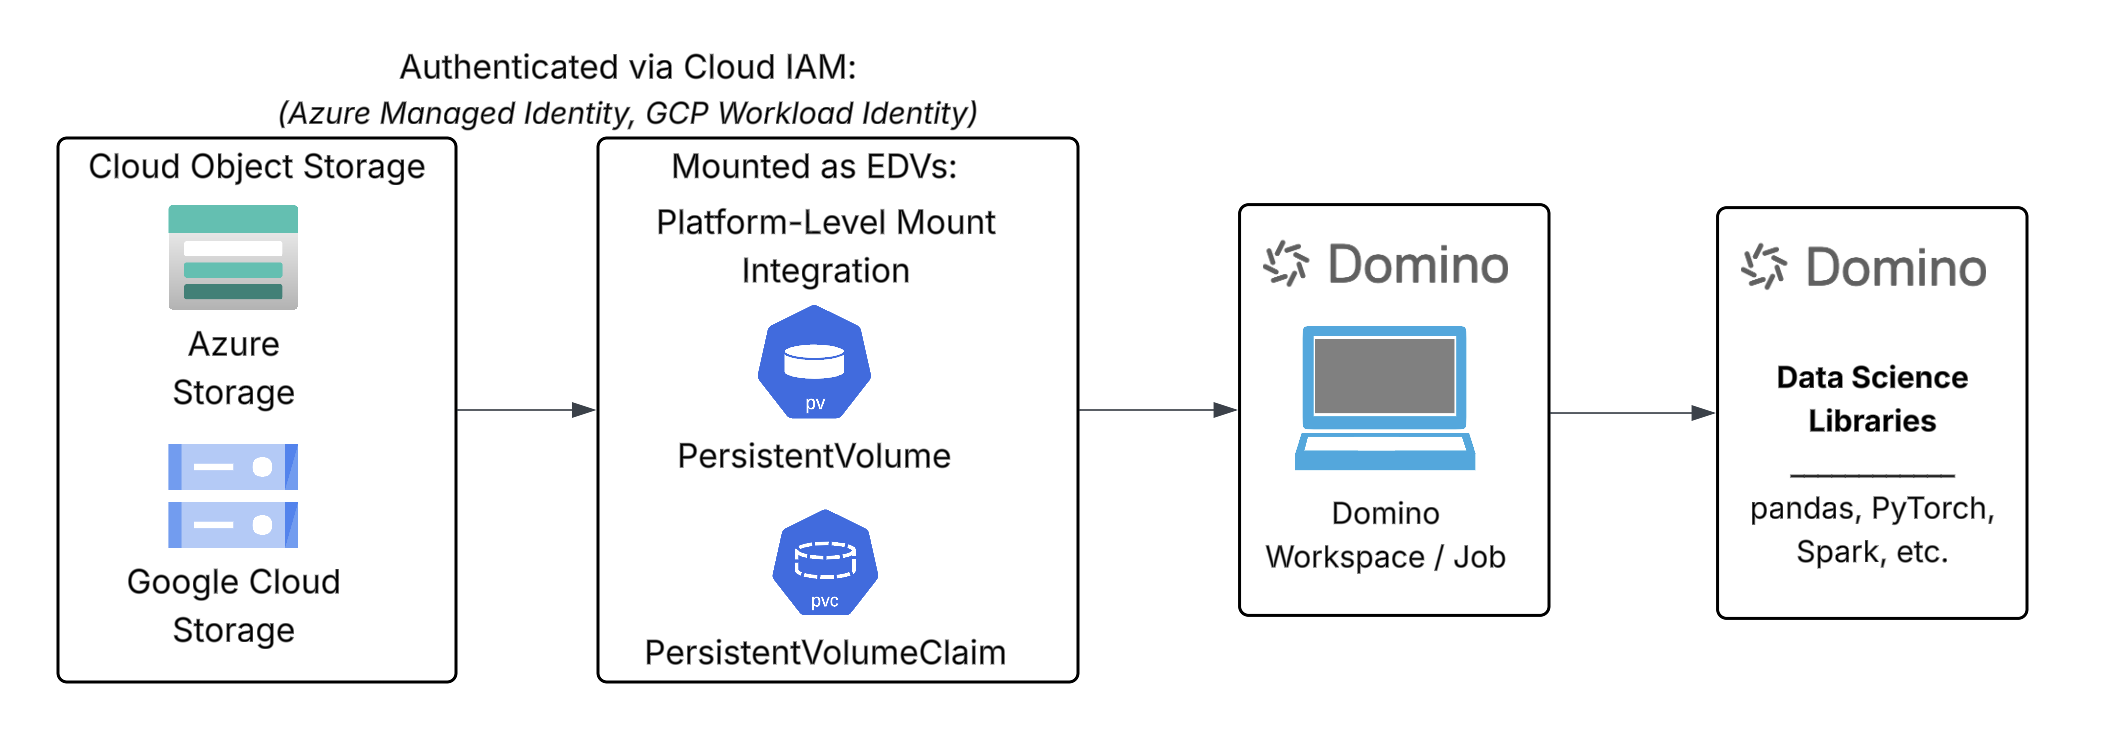
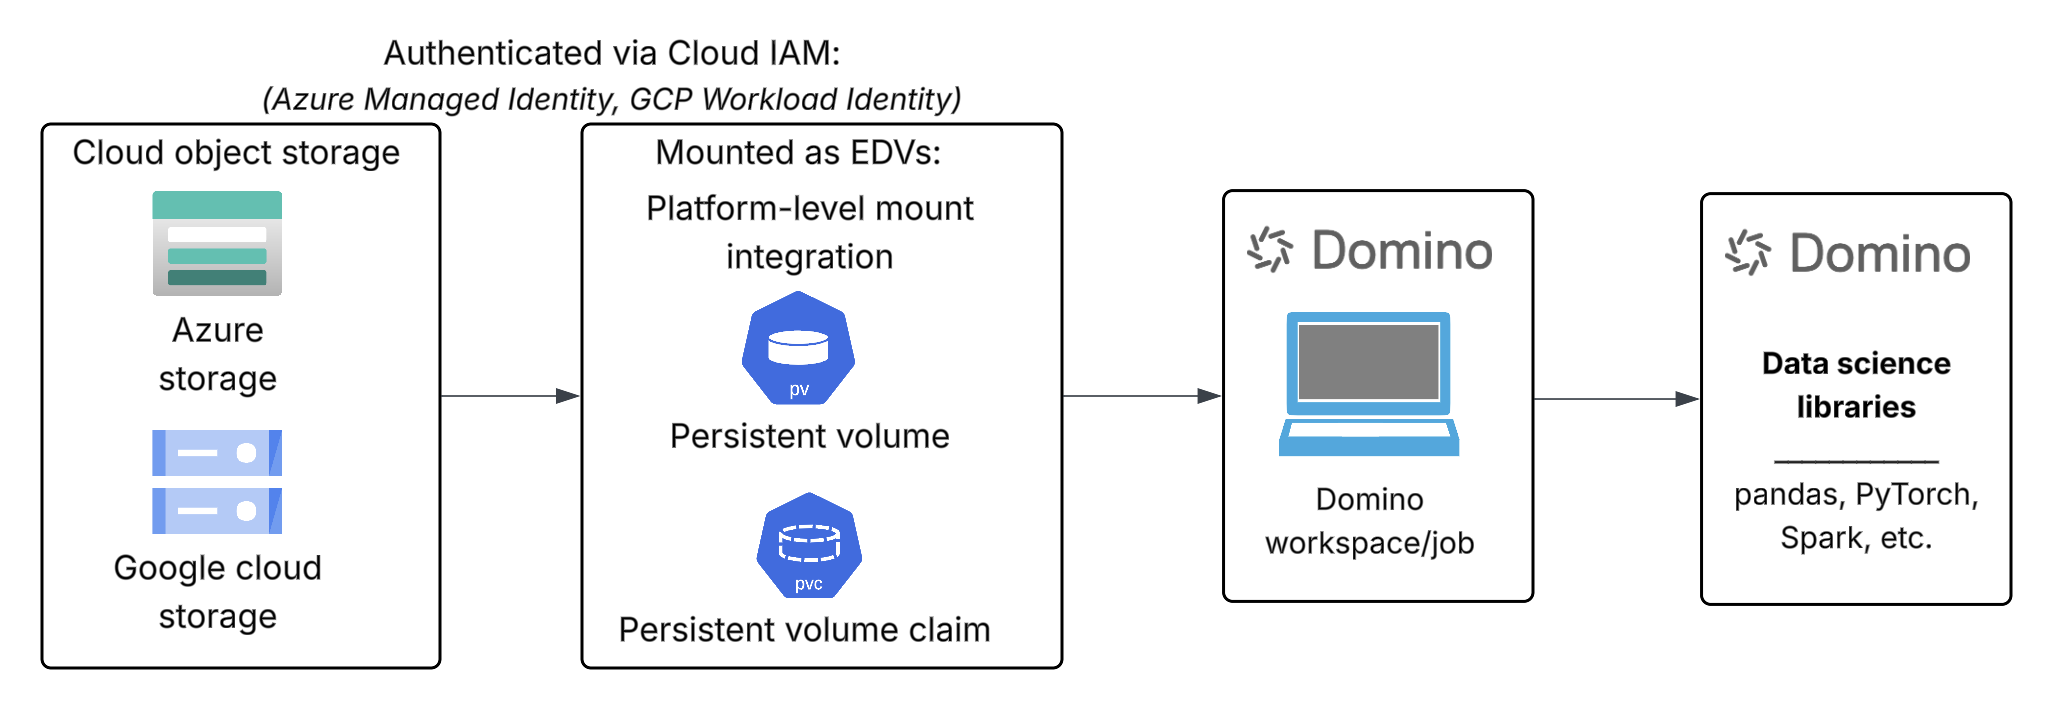
Azure and GCP Mount in Domino

Changed region(s): [[0.0, 0.0604, 0.9688, 0.9368], [0.0625, 0.5137, 0.1562, 0.8764]]

diff --git a/mountpoint-azure-gcp/README.md b/mountpoint-azure-gcp/README.md
@@ -5,15 +5,15 @@ This repository provides a practical, cloud-native approach for exposing **Azure
 The goal is to enable data science teams to work with large, shared datasets through **familiar filesystem paths** inside Domino, while keeping cloud object storage as the system of record and avoiding data duplication.
 
 At a high level, cloud object storage is:
-- authenticated using **cloud-native identity** (Azure Managed Identity or GCP Workload Identity),
-- mounted at the **platform / Kubernetes layer** (not inside user workloads),
-- and exposed to Domino users as **EDVs**, preserving Domino’s security and isolation model.
+- Authenticated using **cloud-native identity** (Azure Managed Identity or GCP Workload Identity),
+- Mounted at the **platform / Kubernetes layer** (not inside user workloads),
+- And exposed to Domino users as **EDVs**, preserving Domino’s security and isolation model.
 
 ## Architecture overview
 
 The diagram below illustrates the conceptual flow for mount-based access in Domino:
 
-![High-Level Architecture: Mounted Object Storage in Domino](images/azure_gcp_architecture_diagram.png)
+![High-Level Architecture: Mounted Object Storage in Domino](images/azure_gcp_architecture_diagram-2.png)
 
 - Cloud object storage remains external to Domino
 - Mounting occurs outside user workspaces
